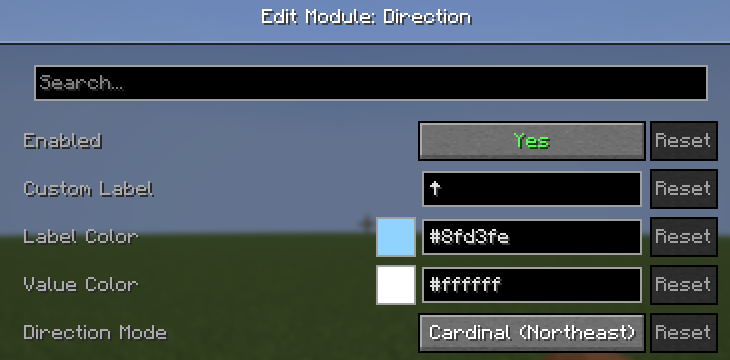
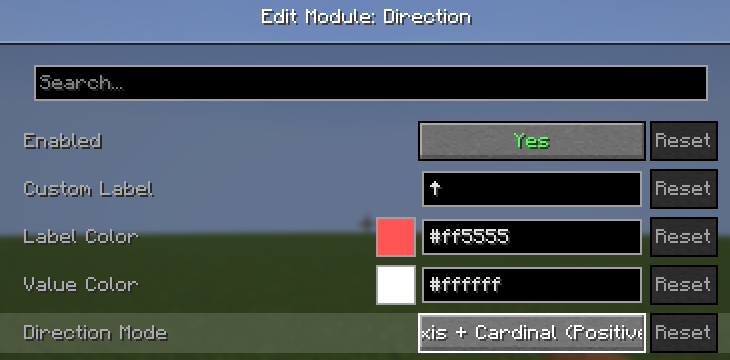
New default HUD layout and colours

diff --git a/src/gametest/java/com/rodrigograc4/windrose/gametest/WindRoseClientGameTest.java b/src/gametest/java/com/rodrigograc4/windrose/gametest/WindRoseClientGameTest.java
@@ -1,7 +1,5 @@
 package com.rodrigograc4.windrose.gametest;
 
-import java.util.List;
-
 import com.mojang.blaze3d.platform.InputConstants;
 import com.rodrigograc4.windrose.config.WindRoseConfig;
 import com.rodrigograc4.windrose.config.WindRoseConfig.DirectionMode;
@@ -33,13 +31,9 @@ public class WindRoseClientGameTest implements FabricClientGameTest {
         context.getInput().resizeWindow(1708, 960);
         context.runOnClient(client -> {
             WindRoseConfig config = WindRoseConfig.INSTANCE;
-            config.activeModules = new java.util.ArrayList<>(List.of(
-                    new WindRoseModule(ModuleType.DAY),
-                    new WindRoseModule(ModuleType.COORDS),
-                    new WindRoseModule(ModuleType.DIRECTION),
-                    new WindRoseModule(ModuleType.TOTEMS),
-                    new WindRoseModule(ModuleType.FPS)));
-            config.directionMode = DirectionMode.CARDINAL;
+            // Exactly what a fresh install shows.
+            config.activeModules = WindRoseConfig.defaultModules();
+            config.directionMode = new WindRoseConfig().directionMode;
         });
 
         try (TestSingleplayerContext world = context.worldBuilder().create()) {
@@ -70,12 +64,14 @@ public class WindRoseClientGameTest implements FabricClientGameTest {
                 context.waitTicks(2);
                 context.takeScreenshot("windrose-3-direction-" + mode.name().toLowerCase());
             }
-            context.runOnClient(client -> WindRoseConfig.INSTANCE.directionMode = DirectionMode.CARDINAL);
+            context.runOnClient(client -> WindRoseConfig.INSTANCE.directionMode = new WindRoseConfig().directionMode);
 
             checkHideWithDebugScreen(context);
 
             // The HUD would show through, blurred, behind the config screens.
             context.runOnClient(client -> WindRoseConfig.INSTANCE.statsEnabled = false);
+            // Keep the cursor off the list, so no row shows its move arrows.
+            context.getInput().setCursorPos(0, 0);
             context.setScreen(() -> new ModulesScreen(null));
             context.waitTicks(5);
             context.takeScreenshot("windrose-5-modules");

diff --git a/src/main/java/com/rodrigograc4/windrose/config/WindRoseConfig.java b/src/main/java/com/rodrigograc4/windrose/config/WindRoseConfig.java
@@ -28,7 +28,7 @@ public class WindRoseConfig implements ConfigData {
     public int backgroundColor = 0x6F505050;
     public long dayCountOffset = 1L;
     public boolean showHours = true;
-    public DirectionMode directionMode = DirectionMode.CARDINAL;
+    public DirectionMode directionMode = DirectionMode.AXIS_CARDINAL;
     public LabelPosition labelPosition = LabelPosition.AFTER_VALUE;
 
 
@@ -59,12 +59,22 @@ public class WindRoseConfig implements ConfigData {
 
         if (activeModules.isEmpty()) {
             WindRose.LOGGER.info("Module list empty, adding default modules");
-            activeModules.add(new WindRoseModule(ModuleType.DAY));
-            activeModules.add(new WindRoseModule(ModuleType.COORDS));
-            activeModules.add(new WindRoseModule(ModuleType.DIRECTION));
+            activeModules.addAll(defaultModules());
         }
         defaultModulesAdded = true;
         save();
+    }
+
+    /** The HUD a fresh install starts with, top to bottom. */
+    public static List<WindRoseModule> defaultModules() {
+        return new ArrayList<>(List.of(
+                new WindRoseModule(ModuleType.FPS),
+                new WindRoseModule(ModuleType.TOTEMS),
+                new WindRoseModule(ModuleType.SPACER),
+                new WindRoseModule(ModuleType.DAY),
+                new WindRoseModule(ModuleType.SPACER),
+                new WindRoseModule(ModuleType.COORDS),
+                new WindRoseModule(ModuleType.DIRECTION)));
     }
 
     public void incrementTotems(String worldName) {

diff --git a/src/main/java/com/rodrigograc4/windrose/screen/EditModuleScreen.java b/src/main/java/com/rodrigograc4/windrose/screen/EditModuleScreen.java
@@ -61,7 +61,7 @@ public class EditModuleScreen {
 
         if (module.type == ModuleType.DIRECTION) {
             category.addEntry(eb.startEnumSelector(Component.translatable("windrose.edit.directionMode"), DirectionMode.class, config.directionMode)
-                    .setDefaultValue(DirectionMode.CARDINAL)
+                    .setDefaultValue(DirectionMode.AXIS_CARDINAL)
                     .setEnumNameProvider(mode -> enumName("windrose.directionMode.", mode))
                     .setSaveConsumer(v -> config.directionMode = v)
                     .build());

diff --git a/src/main/java/com/rodrigograc4/windrose/config/module/WindRoseModule.java b/src/main/java/com/rodrigograc4/windrose/config/module/WindRoseModule.java
@@ -56,10 +56,10 @@ public class WindRoseModule {
 
     public static int defaultLabelColor(ModuleType type) {
         return switch (type) {
-            case TOTEMS -> 0xF9D472;
-            case DAY -> 0xFF5555;
+            case TOTEMS -> 0xFFFFFF;
+            case DAY -> 0xF9D472;
             case COORDS -> 0xFFFFFF;
-            case DIRECTION -> 0x8FD3FE;
+            case DIRECTION -> 0xFF5555;
             case FPS -> 0xFFFFFF;
             default -> 0xFFFFFF;
         };
